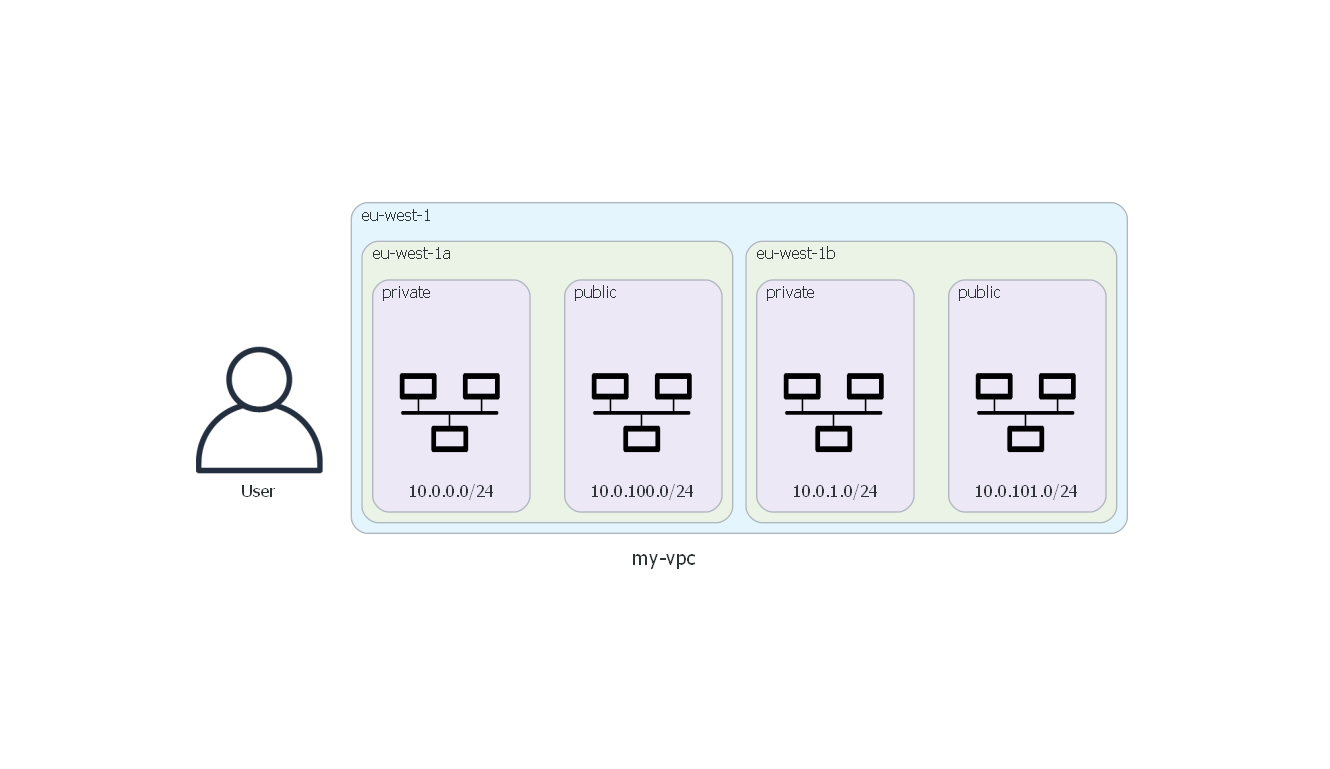
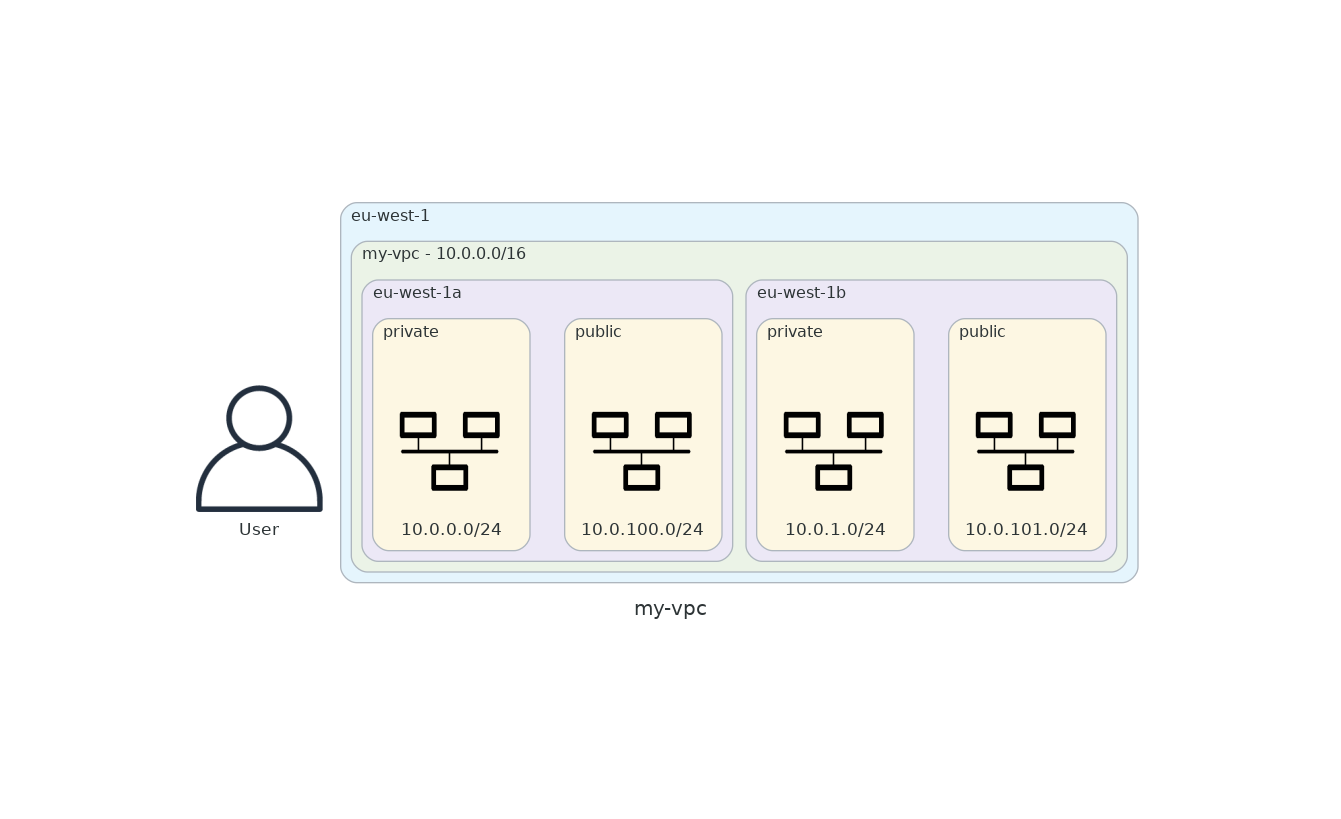
Automated changes

Changed region(s): [[0.1233, 0.2185, 0.8632, 0.749]]

diff --git a/doc/diagram.py b/doc/diagram.py
@@ -8,12 +8,23 @@ with Diagram("my-vpc", show=False, direction="TB"):
 
     with Cluster("eu-west-1"):
 
-        with Cluster("eu-west-1a"):
-            with Cluster("public"):
+        with Cluster("my-vpc - 10.0.0.0/16"):
 
-                subnet_a = Subnet("10.0.100.0/24")
+            with Cluster("eu-west-1b"):
+                with Cluster("public"):
 
-            with Cluster("private"):
+                    subnet_b = Subnet("10.0.101.0/24")
 
-                subnet_a = Subnet("10.0.0.0/24")
+                with Cluster("private"):
+
+                    subnet_b = Subnet("10.0.1.0/24")
+
+            with Cluster("eu-west-1a"):
+                with Cluster("public"):
+
+                    subnet_a = Subnet("10.0.100.0/24")
+
+                with Cluster("private"):
+
+                    subnet_a = Subnet("10.0.0.0/24")
 

diff --git a/doc/doc.md b/doc/doc.md
@@ -2,12 +2,14 @@
 ## **Global parameters**
 * This VPC is named `my-vpc` and resides in the `eu-west-1` region.
 * It uses the following CIDR block: `10.0.0.0/16`.
-* It spans the `1` following Availability Zones (AZs):
+* It spans the `2` following Availability Zones (AZs):
   * `eu-west-1a`
+  * `eu-west-1b`
 
 ## **Subnets**
-* This VPC counts `1` public subnets and  `1` private subnets:
+* This VPC counts `2` public subnets and  `2` private subnets:
 
 | Availability Zone | Public subnet ID | Public subnet IP range | Private subnet ID | Private subnet IP range | 
 | --- | --- | --- | --- | --- |
 | eu-west-1a | subnet-002ff6cd6d4450e3e | 10.0.100.0/24 | subnet-0d86928d92cc4e98a | 10.0.0.0/24 |
+| eu-west-1b | subnet-035b4a947fcf05714 | 10.0.101.0/24 | subnet-0b1ae830fec1ed9c5 | 10.0.1.0/24 |
